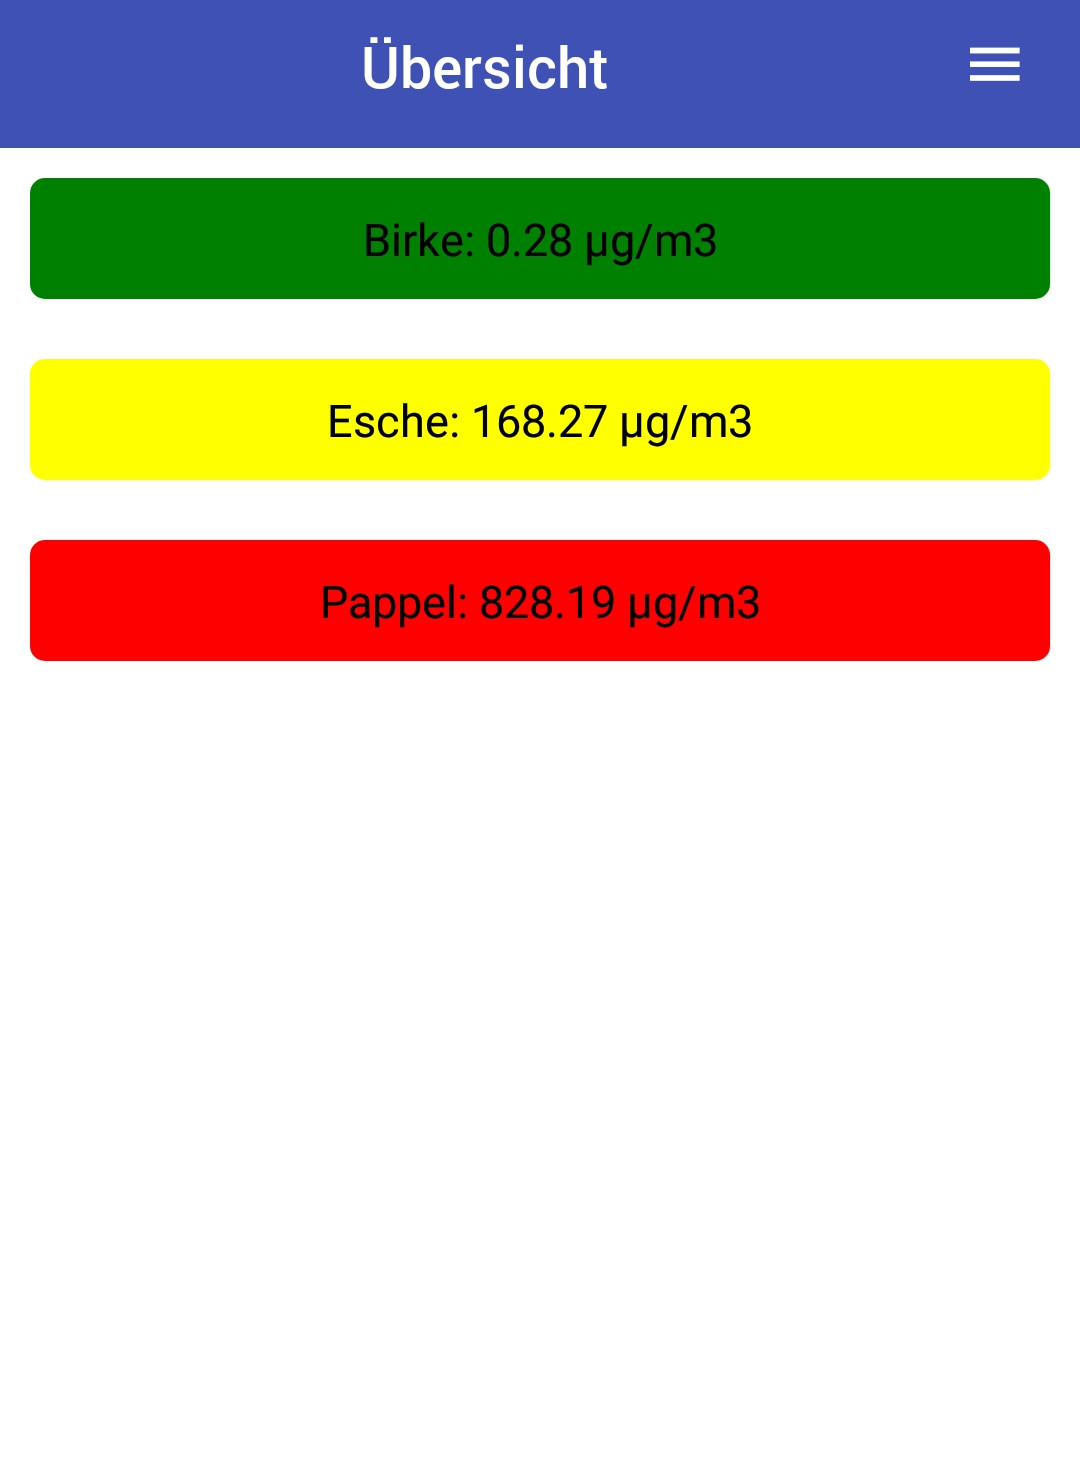
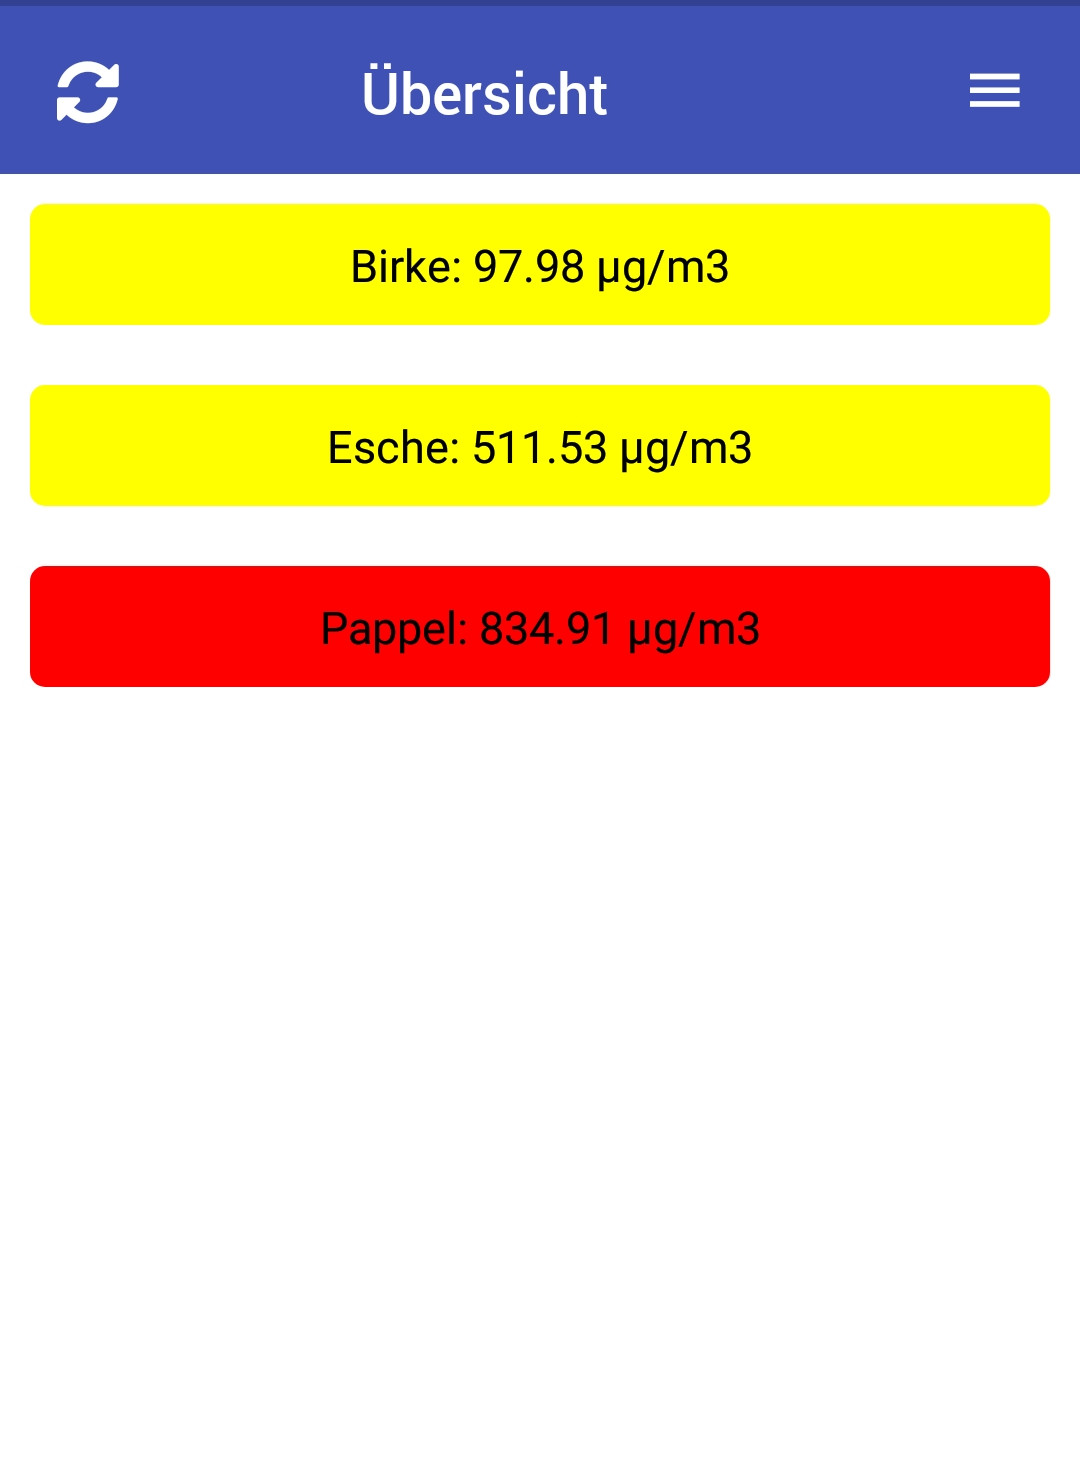
Small fix, Wording etc

Changed region(s): [[0.0, 0.0, 1.0, 0.4928]]

diff --git a/screens/TourScreen.js b/screens/TourScreen.js
@@ -38,7 +38,7 @@ export default class TourScreen extends Component {
                     <H1 style={styles.headline}>Aktualisieren</H1>
                       <Image source={require('../assets/tour2_refresh.jpg')} style={styles.image}/>
                       <Text style={styles.descriptions}>
-                      Streiche mit deinem Finger einfach von oben nach unten über das Display, um die Übersicht zu aktualisieren. So lädt der Airchecker erneut die aktuellen Schadstoffwerte .
+                      Streiche mit deinem Finger einfach von oben nach unten über das Display oder nutze das <Icon style={{fontSize: 18, color: "#ffffff"}} type="FontAwesome" name="refresh" /> Icon, um die Übersicht zu aktualisieren. So lädt der Airchecker erneut die aktuellen Schadstoffwerte .
                       </Text>
                       <Button transparent onPress={() => this.viewPager.setPage(3)} style={styles.doneButton}>
                         <Icon type="FontAwesome" name="angle-right"/>
